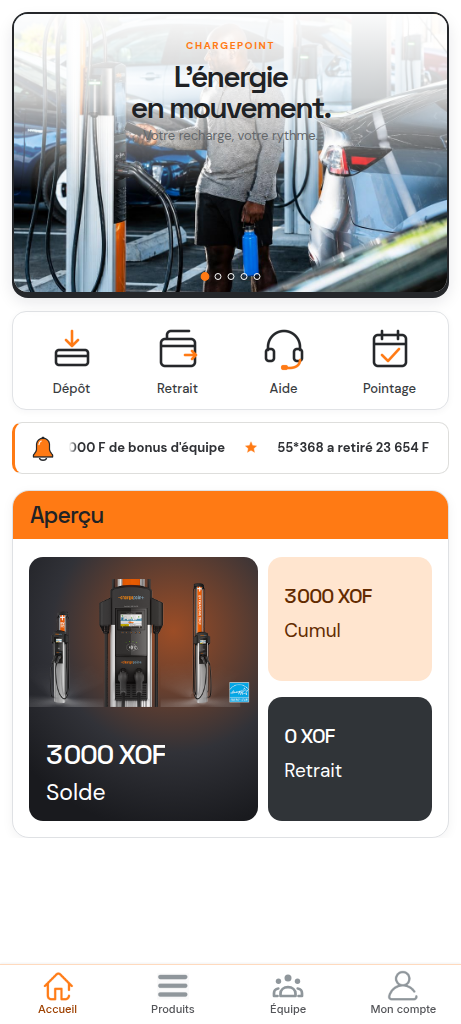
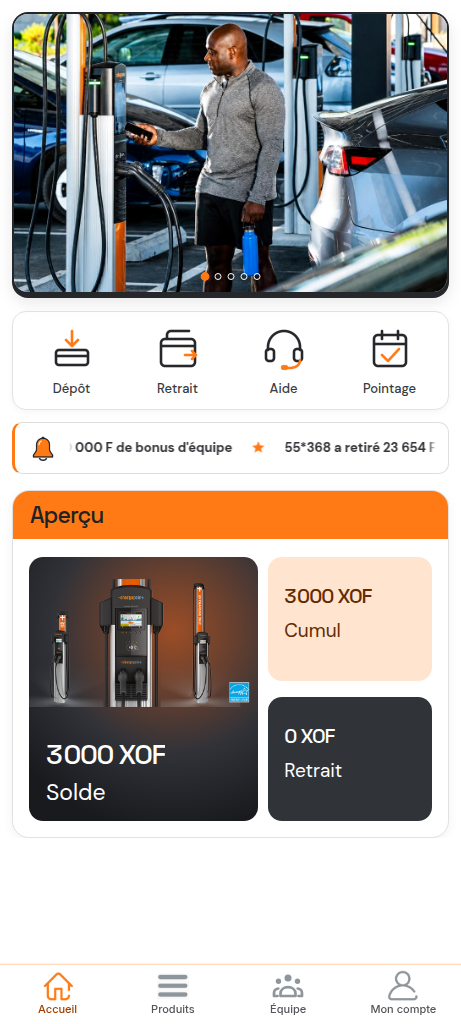
Refactor home page layout and update comparison screenshot
Replit-Commit-Author: Agent

diff --git a/client/src/pages/home.css b/client/src/pages/home.css
@@ -14,9 +14,7 @@
 .cp-hero { position: relative; height: 282px; margin:12px 12px 0; overflow: hidden; border:2px solid #25272a; border-radius:16px; background: #fff; box-shadow:0 4px 0 #25272a, 0 8px 16px rgba(17,24,39,.1); }
 .cp-hero-slides { display:flex; width:100%; height:100%; transition:transform .75s cubic-bezier(.22,.61,.36,1); }
 .cp-hero-slide { position:relative; flex:0 0 100%; width:100%; height:100%; }
-.cp-hero-slide::after { content:""; position:absolute; inset:0; background:linear-gradient(180deg,rgba(255,255,255,.98) 0%,rgba(255,255,255,.78) 30%,rgba(255,255,255,0) 64%); }
-.cp-hero-slide img { display:block; width:100%; height:100%; object-fit:cover; }
-.cp-hero-copy { position:absolute; inset:0 0 auto; z-index:2; padding:18px 20px 30px; text-align:center; }
+.cp-hero-slide img { display:block; width:100%; height:100%; object-fit:cover; filter:saturate(1.04) contrast(1.03); }
 .cp-kicker { color: var(--cp-orange); font-size: 10px; font-weight: 700; letter-spacing: .16em; }
 .cp-hero h1 { margin: 6px 0 3px; font: 600 30px/1.02 "Space Grotesk",sans-serif; letter-spacing: -.06em; }
 .cp-hero h1 strong { font-weight: 600; }

diff --git a/client/src/pages/home.tsx b/client/src/pages/home.tsx
@@ -92,11 +92,6 @@ export default function HomePage() {
                 </div>
               ))}
             </div>
-            <div className="cp-hero-copy">
-              <span className="cp-kicker">CHARGEPOINT</span>
-              <h1>L'énergie<br /><strong>en mouvement.</strong></h1>
-              <p>Votre recharge, votre rythme.</p>
-            </div>
             <div className="cp-hero-dots" aria-label="Images de la bannière">
               {bannerSlides.map((slide, index) => (
                 <button
